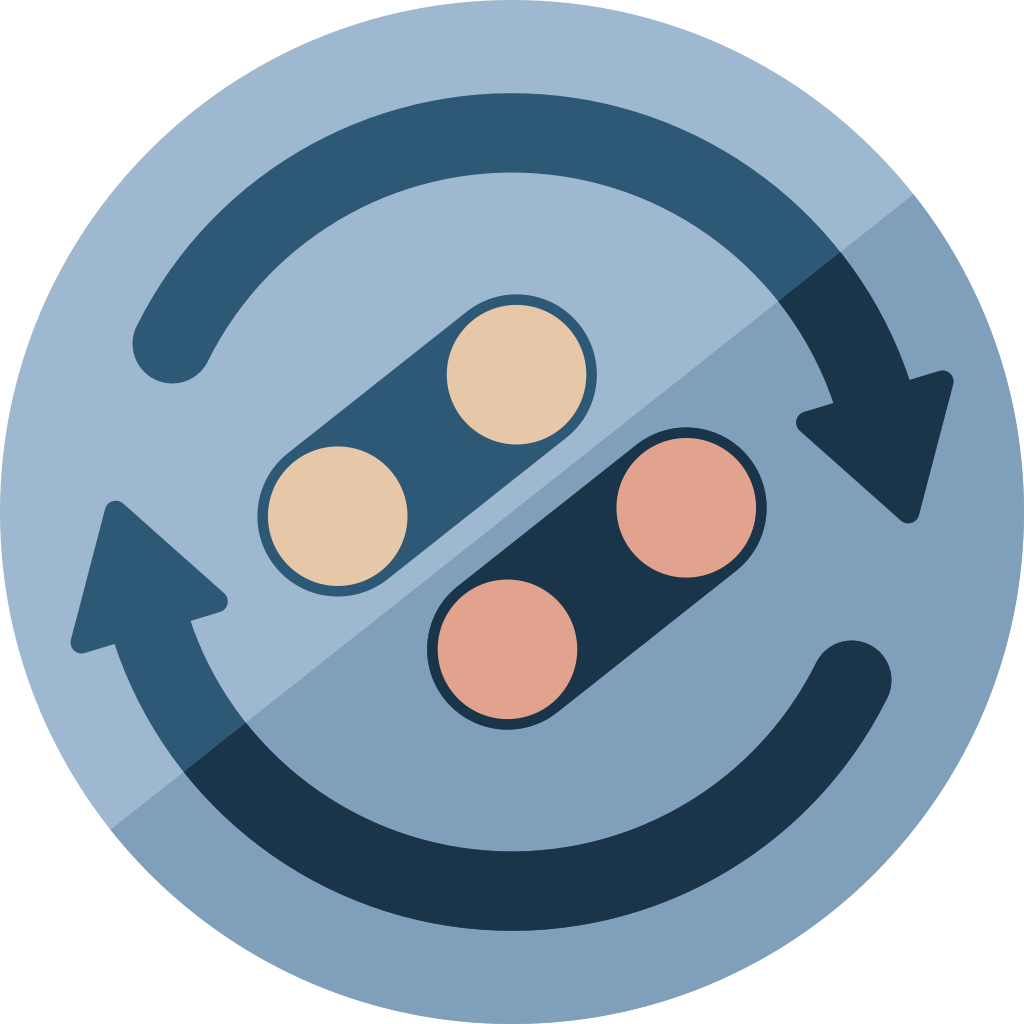
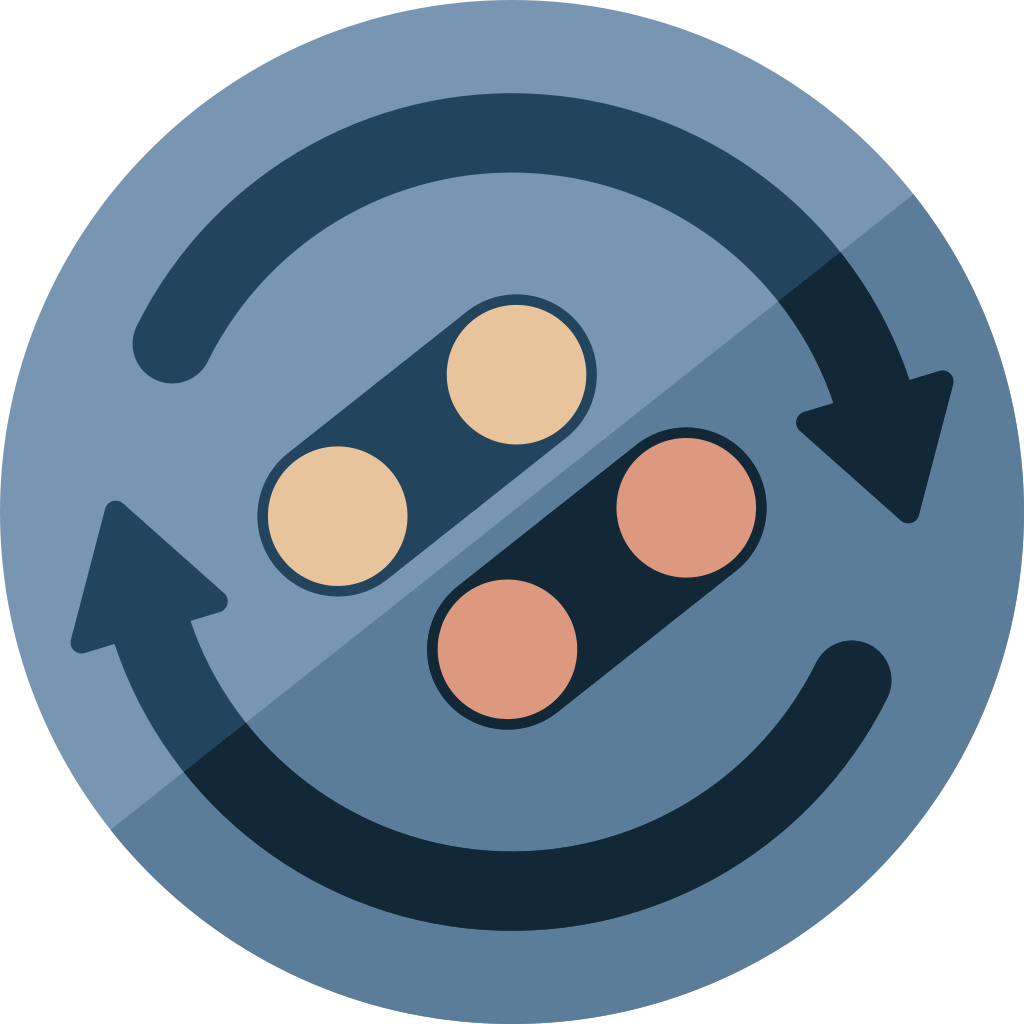
chore(assets): darken the mark so it stops glaring on dark ground (#1606)
The disc read as a lit blob against the docs' dark ground — 5.44:1
against it, brighter than anything else on the page.

Inverting is not available: the pale warm dots sit on the bars, so light
ink drops them from 4.73:1 to 1.10:1 and they
disappear. Dropping the disc alone runs out almost as fast, since the
arrows need it lighter than the ink and that
separation is gone by about `#5b7896`. `harbor-warm` takes the disc and
the ink down together and keeps the gap: glare
against the docs body falls to **3.49:1** while the arrows hold 2.34:1,
and the dots end up better off than before at
6.2:1 against the deeper ink.

Palette only — no geometry or timing changes. Assets rebuilt with
`build.py --install`.

diff --git a/scripts/logo/gen.py b/scripts/logo/gen.py
@@ -6,8 +6,9 @@ Everything is driven by two small config objects — a `Palette` (colours) and a
 `Geometry` (positions and sizes) — so the mark can be re-derived and nudged
 without touching the drawing code. A `Palette` carries two facet pairs: the disc
 tones and the "ink" tones (arrows + button bars), each given as (above-left,
-below-right) for the split. The two dot colours are the warm accents and are
-meant to stay put; the blue work happens in the pairs.
+below-right) for the split, plus the two warm dot colours. Most of the work is in
+the blue pairs; the dots only move when the ink moves far enough that they have
+to follow it.
 
 The four dots sit on a diamond that is **wider than it is tall** — a stretched
 one, not a square. That stretch is what tilts the bars joining adjacent dots past
@@ -449,10 +450,16 @@ def standalone(
 # --------------------------------------------------------------------------- #
 # Palettes                                                                    #
 # --------------------------------------------------------------------------- #
-# The warm dots are shared; only the blues change between candidates.
 _TAN = "#e6c7a7"
 _PEACH = "#e1a38d"
 
+# How dark the mark can go is bounded from both sides, and the two bounds close on
+# each other. The pale warm dots sit *on* the bars, so the ink has to stay dark
+# enough to carry them — on light ink they fall to 1.1:1 and vanish, which is why
+# inverting the mark is not an option. The arrows meanwhile need the disc to stay
+# lighter than the ink, and dropping the disc alone runs out at about #5b7896,
+# where they fall to 1.65:1 against it. So a darker mark moves the disc and the
+# ink together and keeps the separation between them.
 PALETTES: list[Palette] = [
     # The source artwork's colours — the reference point.
     Palette("original", ("#aec6da", "#93b0c8"), ("#2d5876", "#1a3549"), _TAN, _PEACH),
@@ -464,12 +471,17 @@ PALETTES: list[Palette] = [
     Palette("midnight", ("#8ba7c0", "#6f90ac"), ("#22415a", "#0e1f2e"), _TAN, _PEACH),
     # A cooler, brighter blue on a lighter disc.
     Palette("slate", ("#a6c0d6", "#88a6c0"), ("#34617f", "#1f3d52"), _TAN, _PEACH),
+    # Disc and ink both two steps down, which halves the glare against the docs'
+    # dark ground. The dots come up to meet the deeper ink rather than staying on
+    # the shared pair — they are the only warm thing in the mark and the extra
+    # depth behind them is worth spending on making them read.
+    Palette("harbor-warm", ("#7896b1", "#5c7d9a"), ("#22455d", "#122836"), "#e8c49c", "#dd9880"),
 ]
 
 BY_NAME = {p.name: p for p in PALETTES}
 
 # The chosen mark — what the shipped assets render from.
-CHOSEN = "steel"
+CHOSEN = "harbor-warm"
 
 
 # --------------------------------------------------------------------------- #

diff --git a/scripts/logo/README.md b/scripts/logo/README.md
@@ -38,7 +38,8 @@ python3 anim.py --frame 18         # one frame's SVG
 Three config objects, and nothing else worth editing:
 
 - **`gen.Palette`** — one row per candidate in `PALETTES`; `CHOSEN` names the one that ships. Each carries two facet
-  pairs, disc and ink, given as (above-left, below-right). The two warm dot colours are shared across every candidate.
+  pairs, disc and ink, given as (above-left, below-right), plus the two warm dot colours. How dark a candidate can go is
+  bounded at both ends — see the comment above `PALETTES`.
 - **`gen.Geometry`** — every position and size, in a 200-unit square. Grouped by what they describe: the disc, the sync
   arrows, the button diamond, the dot shapes, the cross.
 - **`anim.Animation`** — frame count, rate, how far the ring turns, and where the morph's holds and ramps meet.
